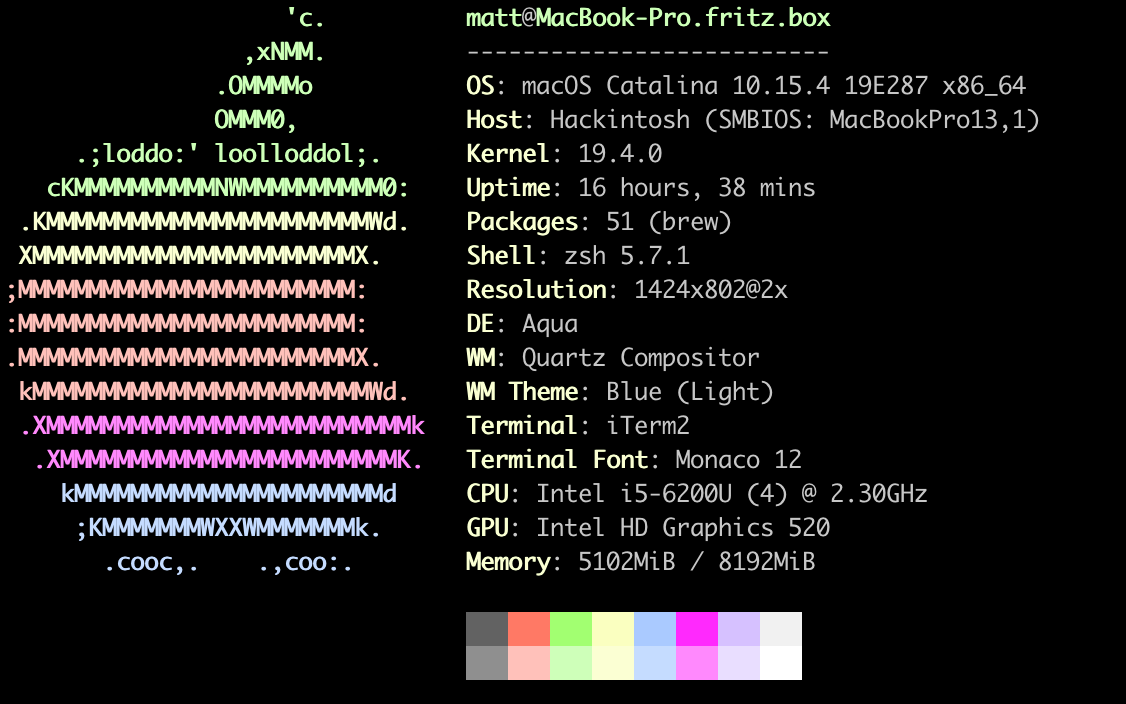
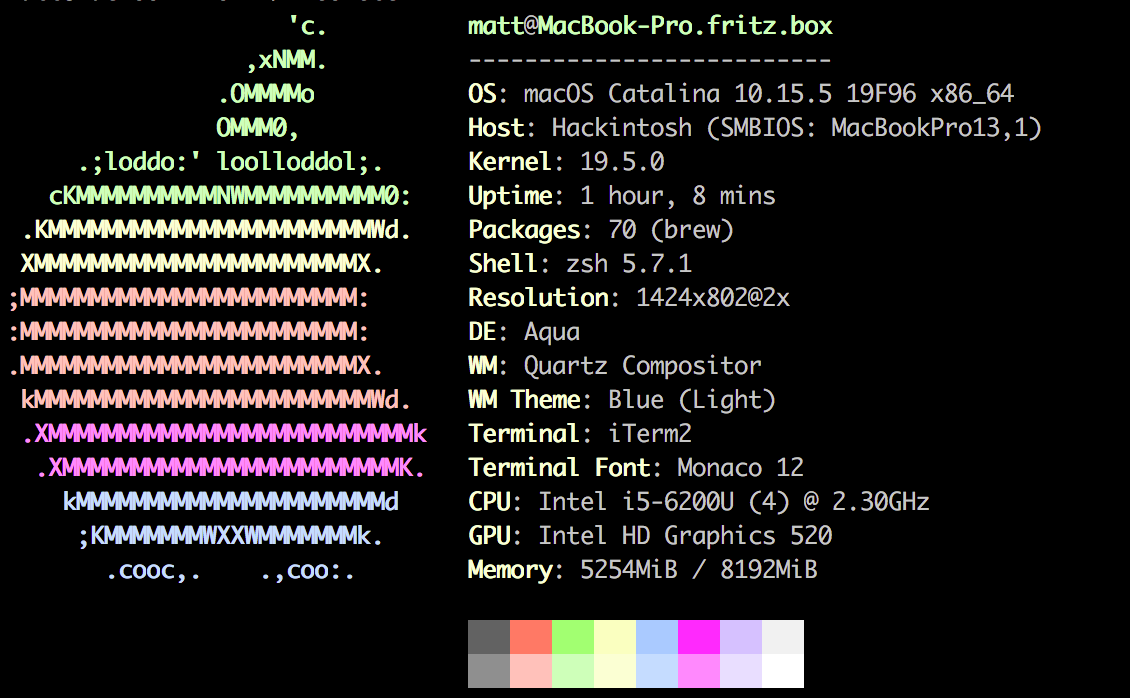
updated to Catalina 10.15.5

Changed region(s): [[0.4041, 0.0, 0.9325, 0.9928], [0.0, 0.0, 0.373, 0.8424]]

diff --git a/README.md b/README.md
@@ -6,9 +6,10 @@ sysInfo | neoFetch
 ![T460](Images/SysInfo.png) | ![T460](Images/NeoFetch.png)
 
 # Update History
-- [x] macOS 10.15.3
-- [x] macOS 10.15.4
+- [x] macOS 10.15.5
 - [x] macOS 10.15.4 Supplemental Update
+- [x] macOS 10.15.4
+- [x] macOS 10.15.3
 
 # Laptop's Hardware
 - <b>Model</b>: Thinkpad T460 (20FN003LGE)
